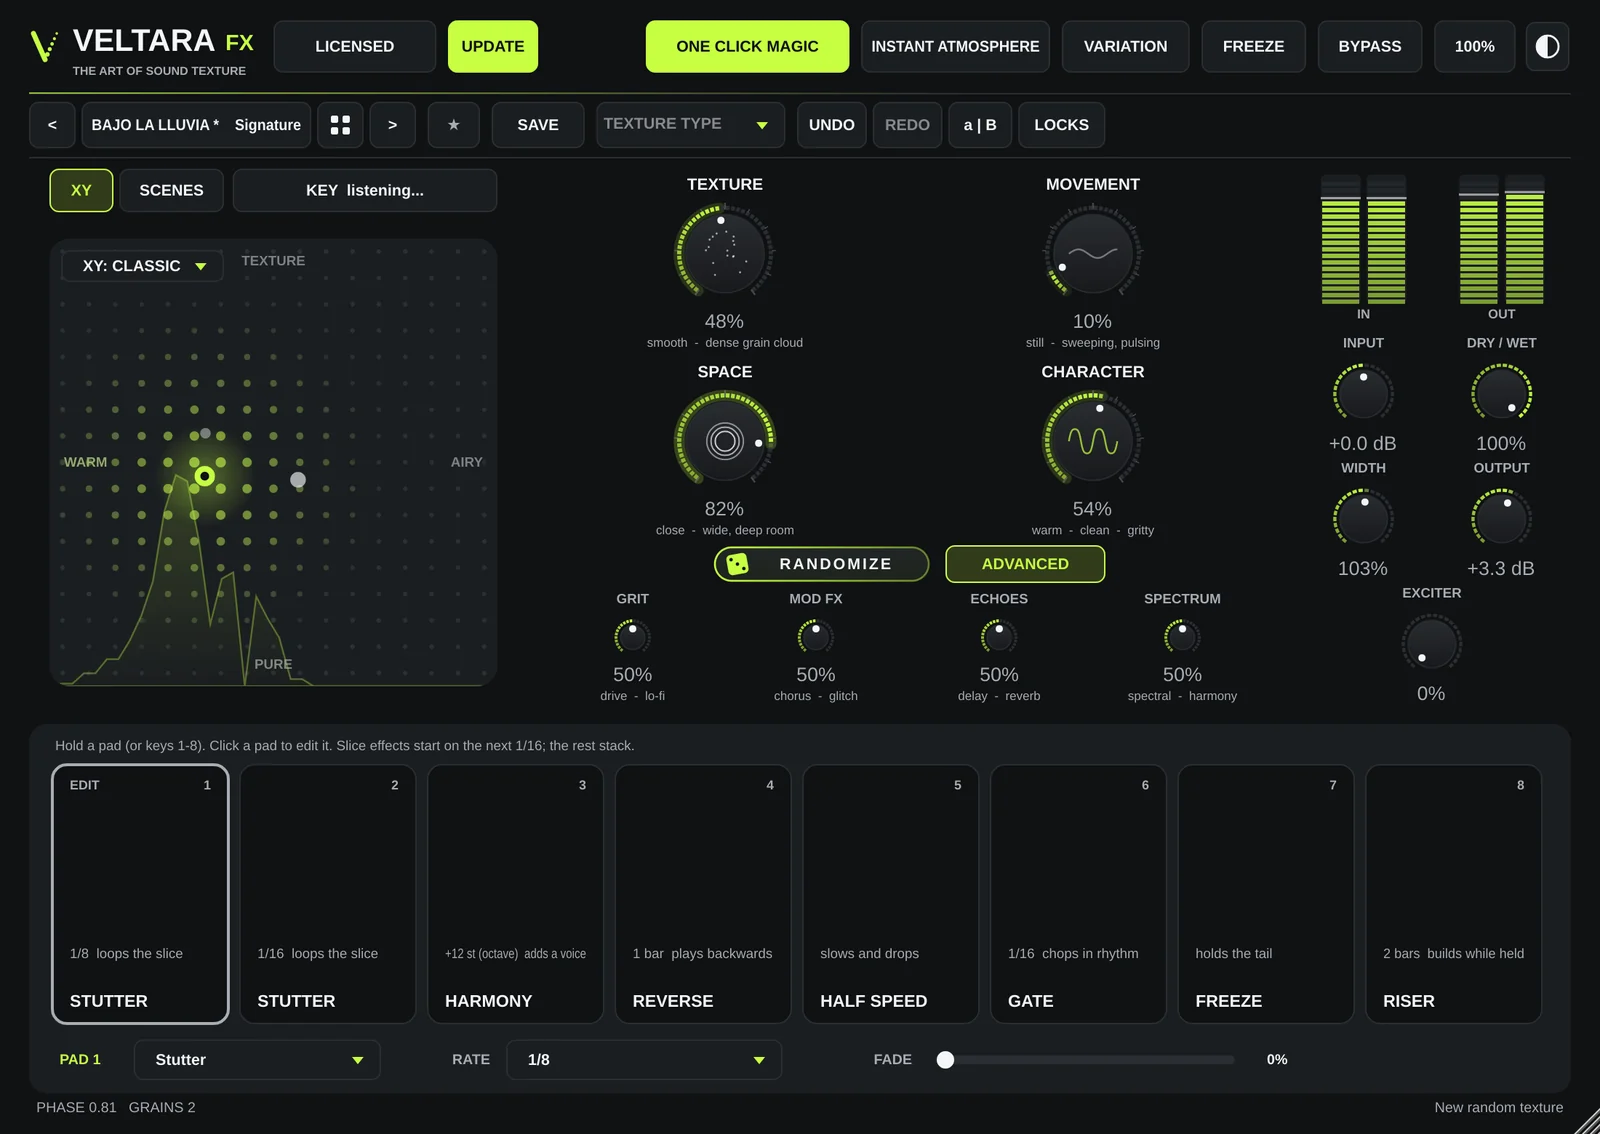
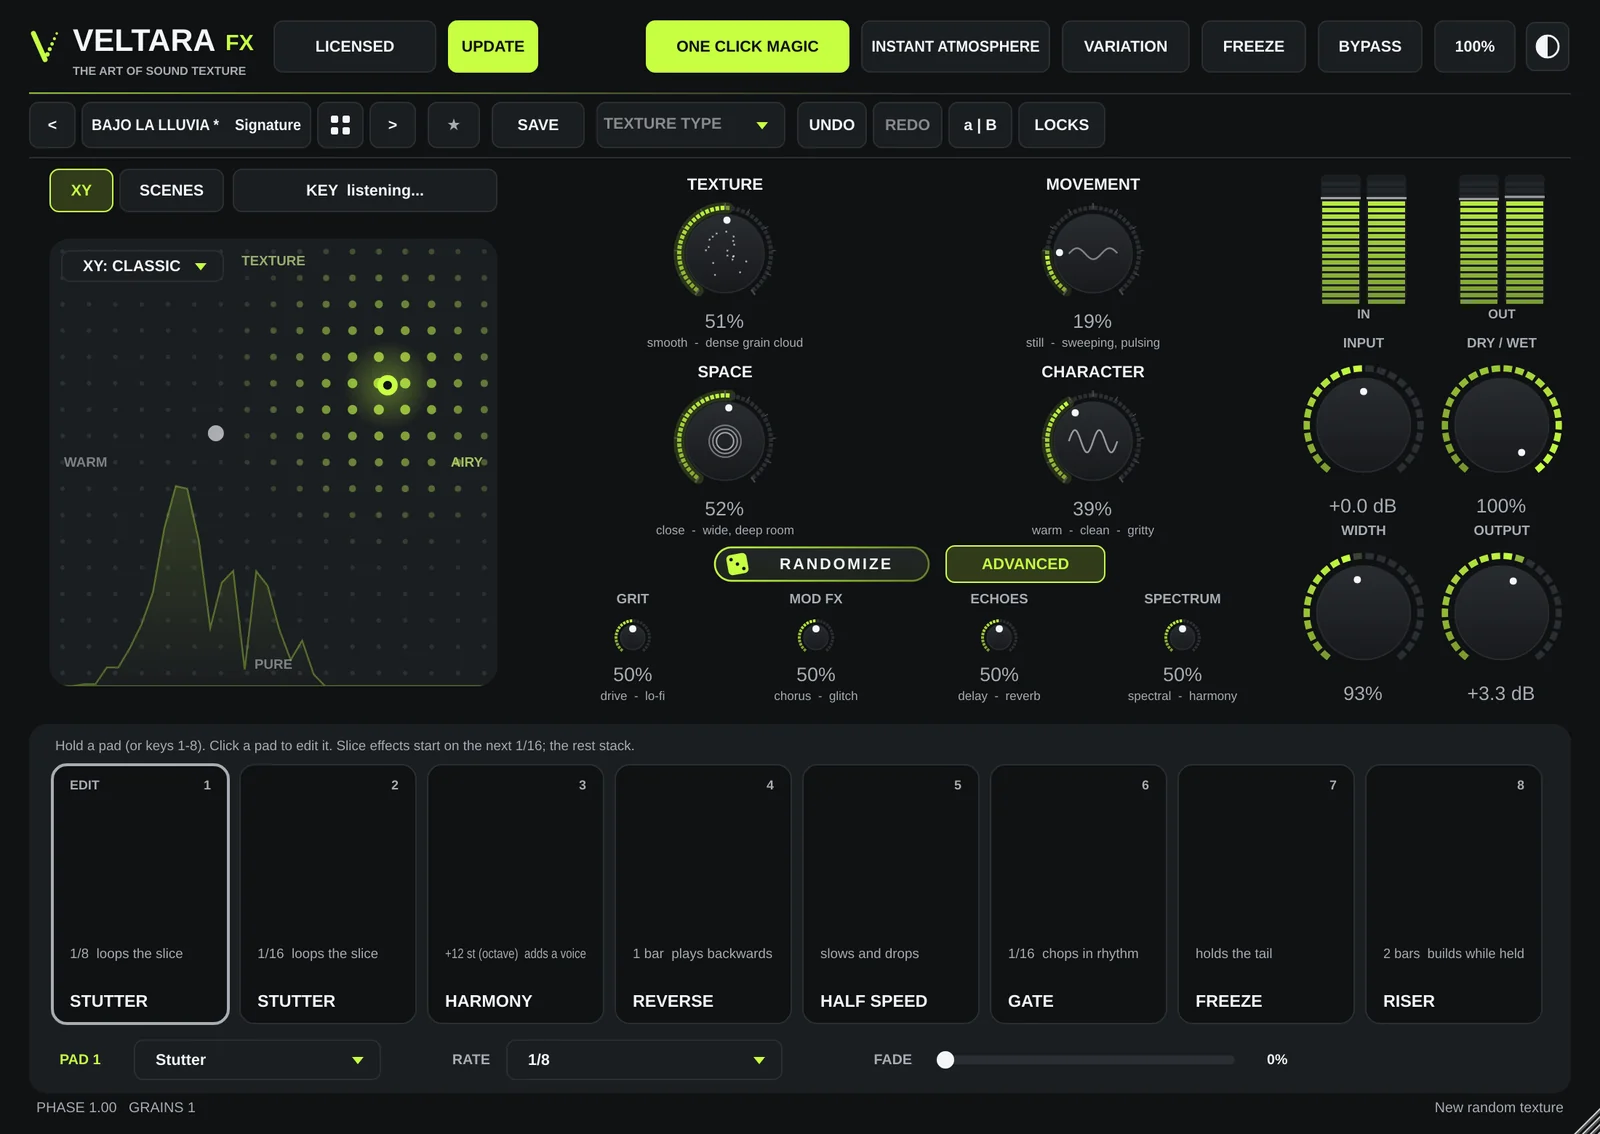
Site: Exciter removed from the plugin (v0.25); new screenshots and copy
Claude-Session: https://claude.ai/code/session_01R1iCjBjbwAbikR48FTajTQ

diff --git a/index.html b/index.html
@@ -659,7 +659,7 @@ header.top::after { content: ""; position: absolute; left: 0; bottom: -1px; heig
           <span class="screws" aria-hidden="true"><i></i><i></i><i></i><i></i></span>
           <span class="callout" style="left:7%; top:-13px; --d:.6s" data-i18n="call.xy">XY pad</span>
           <span class="callout" style="left:46%; top:-13px; --d:.9s" data-i18n="call.macros">4 macros</span>
-          <span class="callout" style="right:-14px; top:52%; --d:1.2s" data-i18n="call.exciter">Exciter</span>
+          <span class="callout" style="right:-14px; top:52%; --d:1.2s" data-i18n="call.output">Output</span>
           <span class="callout" style="left:34%; bottom:-13px; --d:1.5s" data-i18n="call.pads">8 performance pads</span>
         </div>
         <div class="hero-floor" aria-hidden="true"></div>
@@ -804,8 +804,8 @@ header.top::after { content: ""; position: absolute; left: 0; bottom: -1px; heig
           <h3 data-i18n="ui.d3t">Eight performance pads</h3><p data-i18n="ui.d3">Hold to stutter, reverse, half-speed, gate, freeze or build a riser. Playable from the keyboard or MIDI.</p>
         </article>
         <article class="detail panel" data-zoom="img/detail-output.webp">
-          <div class="ph"><img src="img/detail-output.webp" width="370" height="760" loading="lazy" alt="Output column with input and output meters, Input, Dry/Wet, Width, Output and Exciter knobs."></div>
-          <h3 data-i18n="ui.d4t">Output and Exciter</h3><p data-i18n="ui.d4">Meters, dry/wet, width, output level and an Exciter for air on top.</p>
+          <div class="ph"><img src="img/detail-output.webp" width="370" height="760" loading="lazy" alt="Output column with input and output meters, Input, Dry/Wet, Width and Output knobs."></div>
+          <h3 data-i18n="ui.d4t">Output</h3><p data-i18n="ui.d4">Input and output meters, input gain, dry/wet, stereo width and output level.</p>
         </article>
       </div>
     </div>
@@ -1108,7 +1108,7 @@ const TOUR = {
           alt: "VELTARA FX in light mode." },
 };
 const TOUR_EN = {
-  "ui.cMain": "The main view: XY pad, the four macros, RANDOMIZE and ADVANCED, the output column with the Exciter, and eight performance pads.",
+  "ui.cMain": "The main view: XY pad, the four macros, RANDOMIZE and ADVANCED, the output column, and eight performance pads.",
   "ui.cAdv": "ADVANCED adds four effect-family knobs under the macros: Grit (drive, lo-fi), Mod FX (chorus, glitch), Echoes (delay, reverb), Spectrum (spectral, harmony). The centre is your preset.",
   "ui.cBrowser": "The preset browser: 15 banks, search, favourites, and bars that show how much texture, movement and space each preset brings.",
   "ui.cLight": "The same interface in light mode, one click away in the top bar.",
@@ -1126,7 +1126,7 @@ const ES = {
   "hero.lede": "VELTARA FX es un multiefecto creativo para partes melódicas. Ponlo en teclados, synths, guitarras o arpegios, elige uno de 150 presets, y la parte empieza a cortarse, difuminarse, ir al revés y respirar, sincronizada con tu tempo y con la melodía siempre arriba.",
   "hero.fine": "Cómpralo una vez, o recibe cada pack nuevo con VELTARA Plus. Precio de lanzamiento por tiempo limitado.",
   "hero.daws": "Funciona en",
-  "call.xy": "Pad XY", "call.macros": "4 macros", "call.exciter": "Exciter", "call.pads": "8 pads de performance",
+  "call.xy": "Pad XY", "call.macros": "4 macros", "call.output": "Salida", "call.pads": "8 pads de performance",
   "spec.presets": "presets de fábrica en 15 bancos", "spec.slices": "cortes de glitch sincronizados", "spec.fx": "motores de efectos, cada uno con su algoritmo",
   "spec.latency": "de latencia añadida", "spec.cpu": "de un núcleo de CPU a 48 kHz",
   "listen.eyebrow": "Escuchar",
@@ -1159,14 +1159,14 @@ const ES = {
   "ui.eyebrow": "La interfaz", "ui.title": "<span class=\"metal\">Todo en una pantalla.</span> Nada escondido en menús.",
   "ui.lede": "Capturas reales de VELTARA FX. Haz clic en cualquier imagen para ver los controles de cerca.",
   "ui.tMain": "Vista principal", "ui.tAdv": "ADVANCED", "ui.tBrowser": "Navegador de presets", "ui.tLight": "Modo claro", "ui.zoom": "Clic para ampliar",
-  "ui.cMain": "La vista principal: pad XY, los cuatro macros, RANDOMIZE y ADVANCED, la columna de salida con el Exciter, y ocho pads de performance.",
+  "ui.cMain": "La vista principal: pad XY, los cuatro macros, RANDOMIZE y ADVANCED, la columna de salida, y ocho pads de performance.",
   "ui.cAdv": "ADVANCED añade cuatro knobs de familias de efectos debajo de los macros: Grit (drive, lo-fi), Mod FX (chorus, glitch), Echoes (delay, reverb) y Spectrum (spectral, harmony). En el centro está tu preset.",
   "ui.cBrowser": "El navegador de presets: 15 bancos, búsqueda, favoritos y barras que muestran cuánta textura, movimiento y espacio trae cada preset.",
   "ui.cLight": "La misma interfaz en modo claro, a un clic en la barra de arriba.",
   "ui.d1t": "Cuatro macros", "ui.d1": "Texture, Movement, Space y Character. Cada uno tiene su propia etapa de sonido, así que cada giro se oye.",
   "ui.d2t": "Pad XY", "ui.d2": "Mándalo a uno de diez efectos y arrastra. Glitch, grain, filtro, delay: cada uno se dibuja en el pad.",
   "ui.d3t": "Ocho pads de performance", "ui.d3": "Mantén para stutter, reverse, half-speed, gate, freeze o un riser. Se tocan con el teclado o por MIDI.",
-  "ui.d4t": "Salida y Exciter", "ui.d4": "Medidores, dry/wet, anchura, nivel de salida y un Exciter para dar aire arriba.",
+  "ui.d4t": "Salida", "ui.d4": "Medidores de entrada y salida, ganancia de entrada, dry/wet, anchura estéreo y nivel de salida.",
   "banks.eyebrow": "Librería de fábrica", "banks.title": "<span class=\"metal\">150 presets</span> para diseñar texturas, en 15 bancos por género.",
   "banks.lede": "Del reggaetón y el trap a lo cinemático y ambiental. Cada preset está igualado en volumen contra la señal seca, así que cambiar nunca da saltos, y comparado con el resto para que no haya dos iguales. Dale play para oír uno de cada banco.",
   "lib.f1t": "Volumen igualado", "lib.f1": "Cambia de preset en plena sesión sin saltos de volumen.",
@@ -1899,7 +1899,7 @@ const KB = [
     q: ["Are updates free?", "¿Las actualizaciones son gratis?"],
     a: ["Every 1.x update is free, and the plugin tells you when a new version is out.",
         "Todas las actualizaciones 1.x son gratis, y el plugin te avisa cuando sale una versión nueva."] },
-  { id: "controls", k: ["xy", "pad", "macro", "macros", "texture", "movement", "space", "character", "advanced", "randomize", "exciter", "how to use", "como se usa", "como usar", "tutorial", "manual"],
+  { id: "controls", k: ["xy", "pad", "macro", "macros", "texture", "movement", "space", "character", "advanced", "randomize", "how to use", "como se usa", "como usar", "tutorial", "manual"],
     q: ["How do I use it?", "¿Cómo se usa?"],
     a: ["Pick a preset, then shape it with the four macros (Texture, Movement, Space, Character). Send the XY pad to one effect and drag to play it; double-click to return to the preset. Hold the eight performance pads (or keys 1–8, or MIDI) for stutters, reverses, freezes and risers. ADVANCED opens four effect knobs: Grit, Mod FX, Echoes, Spectrum.",
         "Elige un preset y dale forma con los cuatro macros (Texture, Movement, Space, Character). Manda el pad XY a un efecto y arrastra para tocarlo; doble clic vuelve al preset. Mantén los ocho pads de performance (o las teclas 1–8, o MIDI) para stutters, reverses, freezes y risers. ADVANCED abre cuatro knobs de efectos: Grit, Mod FX, Echoes y Spectrum."] },
